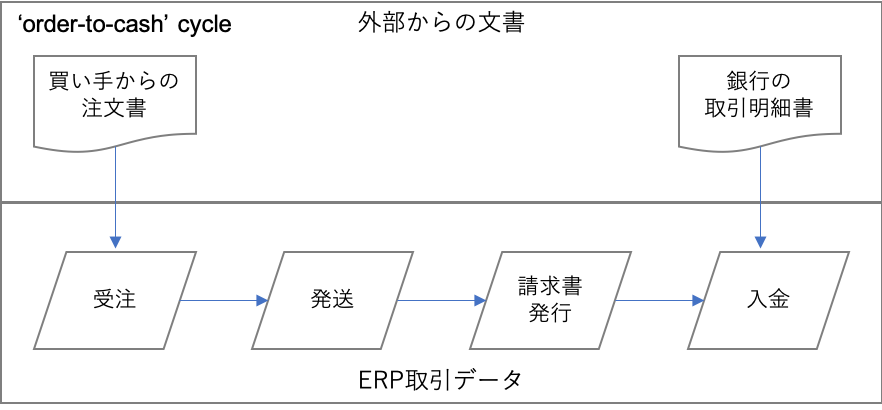
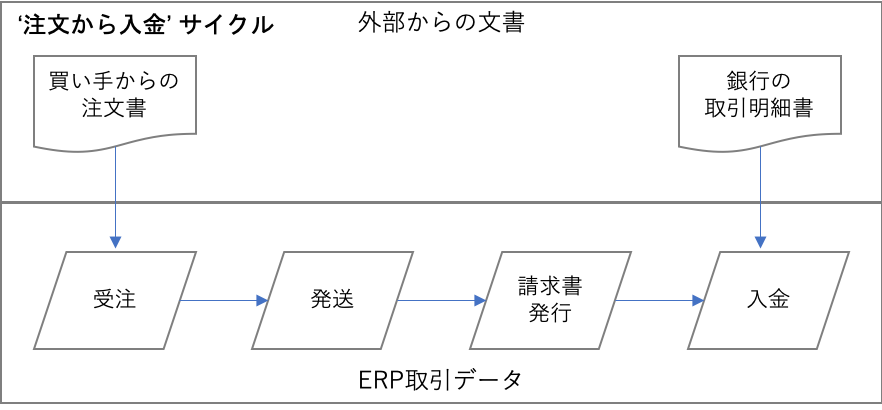
更新

Changed region(s): [[0.0, 0.0293, 0.3061, 0.0878]]

diff --git a/EU規格/CWA_16460_抜粋.md b/EU規格/CWA_16460_抜粋.md
@@ -155,7 +155,7 @@
 
 ![procure-to-pay](図/p2p.png)  
 
-「注文から現金」サイクルに相当する監査証跡は次のとおり。  
+「注文から入金」サイクルに相当する監査証跡は次のとおり。  
 
 ![order-to-cash](図/o2c.png)  
 
